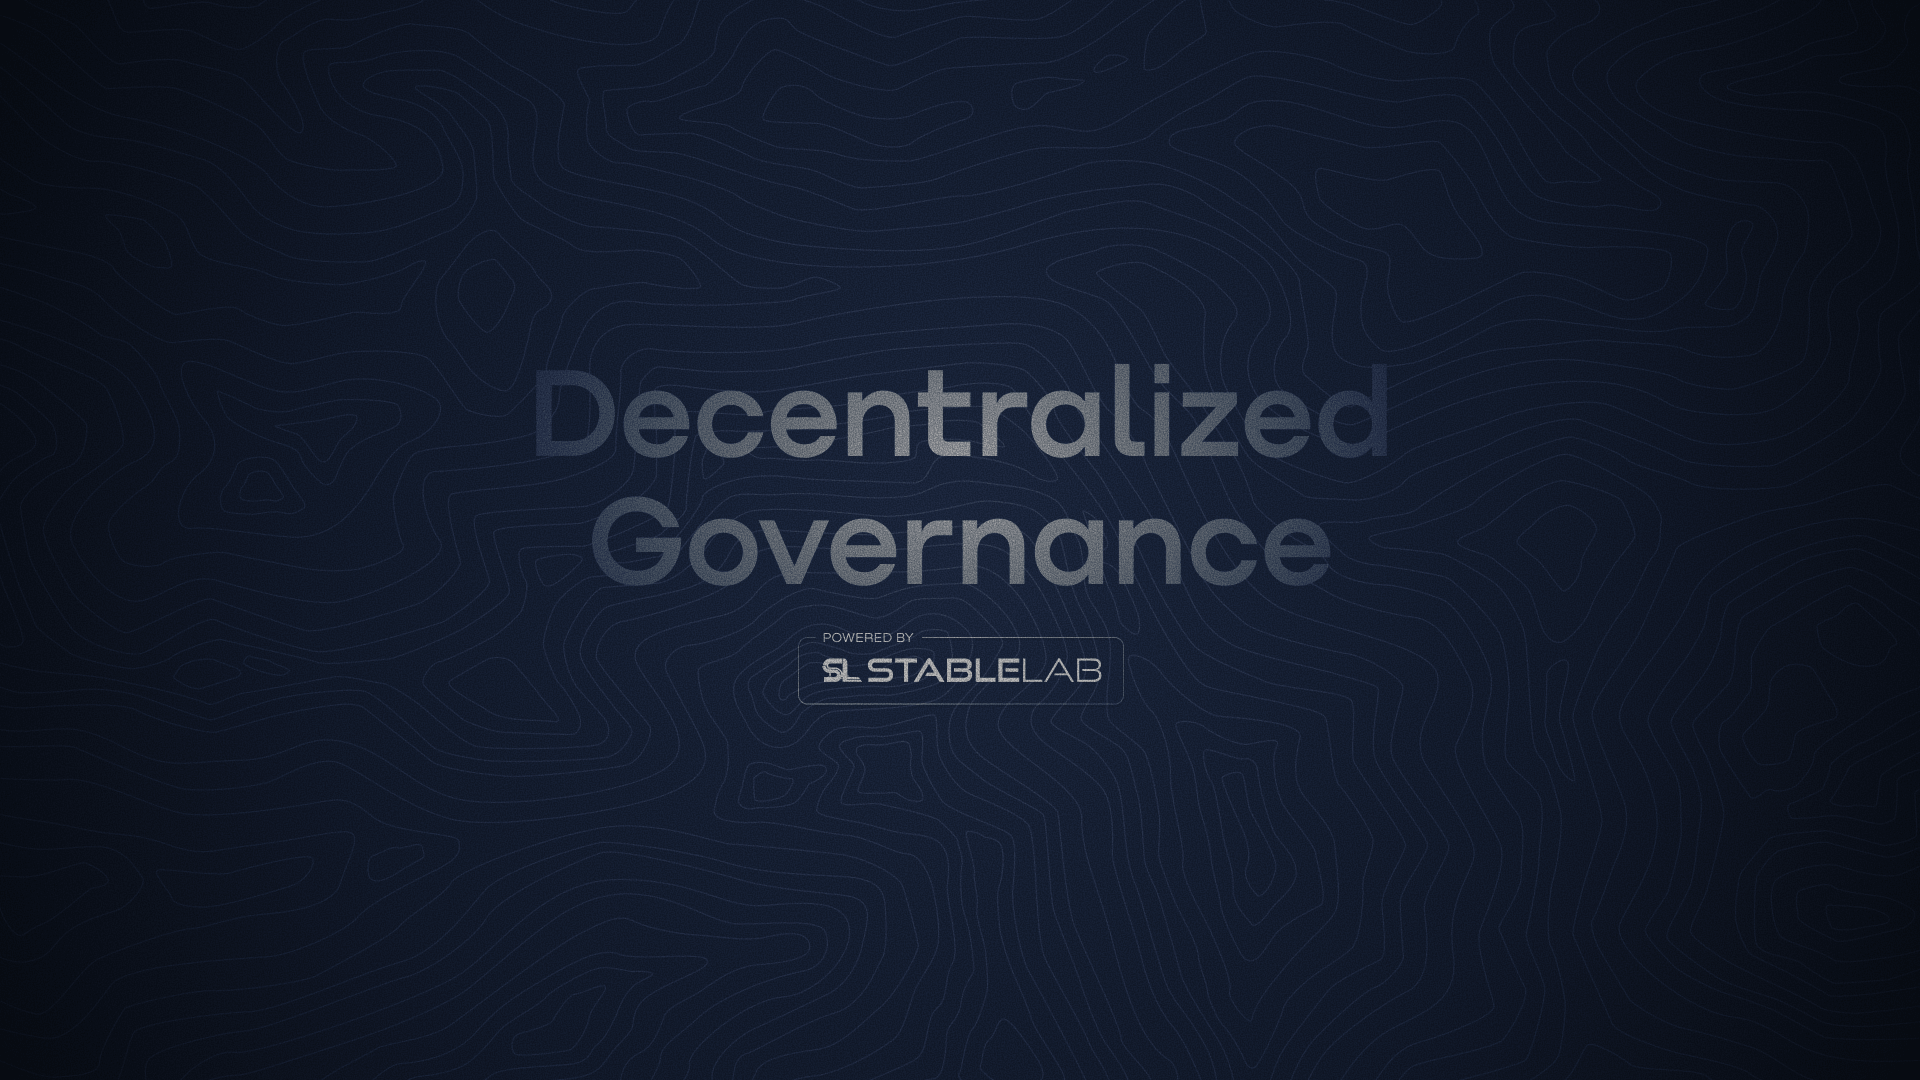
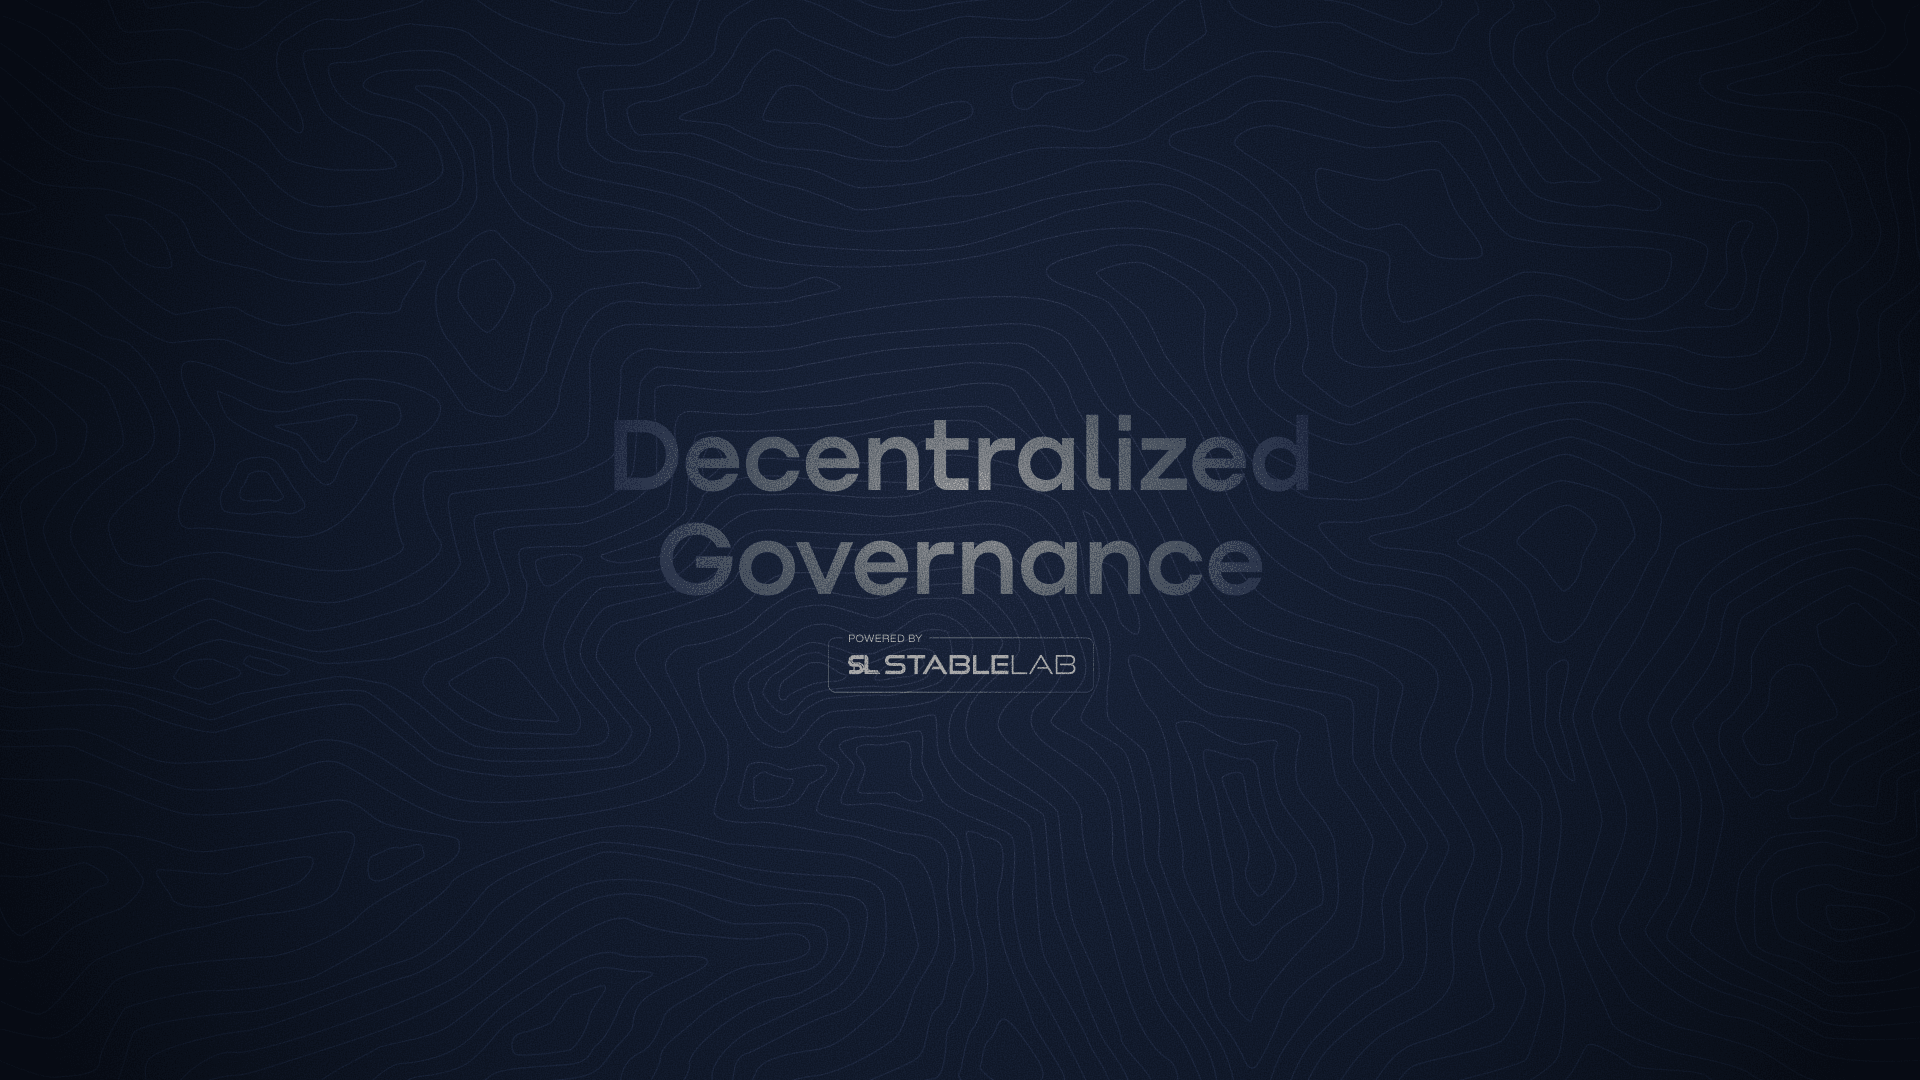
mobile carousel

Changed region(s): [[0.2812, 0.3361, 0.7188, 0.55], [0.4062, 0.5806, 0.5938, 0.6417]]

diff --git a/index.html b/index.html
@@ -645,6 +645,17 @@ footer a:hover { color:var(--ink); }
   .process-step:first-child { border-top:none; }
   .talks-row { grid-template-columns:1fr; }
 }
+
+/* Desktop image shown by default */
+.cs .img-desktop { display: block; }
+.cs .img-mobile  { display: none;  }
+
+/* On mobile swap to portrait image */
+@media (max-width: 768px) {
+  .cs .img-desktop { display: none;  }
+  .cs .img-mobile  { display: block; }
+}
+
 </style>
 </head>
 <body>
@@ -683,14 +694,47 @@ footer a:hover { color:var(--ink); }
       <!-- CAROUSEL SLIDES — replace each .cs div with:
            <div class="cs"><img src="images/carousel/01.jpg" alt="..."></div>
            or video: <div class="cs"><video autoplay muted loop playsinline src="..."></video></div> -->
-           <div class="cs"><img src="images/carousel/project-1.png" alt="Project name"></div>
-           <div class="cs"><img src="images/carousel/project-2.png" alt="Project name"></div>
-           <div class="cs"><img src="images/carousel/project-3.png" alt="Project name"></div>
-           <div class="cs"><video autoplay muted loop playsinline>
+           <div class="cs">
+            <img class="img-desktop"
+            src="images/carousel/project-1.png"
+            alt="Project 1">
+            <img class="img-mobile"
+            src="images/carousel/project-1-mobile.png"
+            alt="Project 1">
+          </div>
+
+          <div class="cs">
+            <img class="img-desktop"
+            src="images/carousel/project-2.png"
+            alt="Project 1">
+            <img class="img-mobile"
+            src="images/carousel/project-2-mobile.png"
+            alt="Project 1">
+          </div>
+
+          <div class="cs">
+            <img class="img-desktop"
+            src="images/carousel/project-3.png"
+            alt="Project 1">
+            <img class="img-mobile"
+            src="images/carousel/project-3-mobile.png"
+            alt="Project 1">
+          </div>
+           
+          <div class="cs"><video autoplay muted loop playsinline>
             <source src="images/carousel/ff-documentary-trailer-compressed-4.mp4" type="video/mp4">
           </video></div>
-          <div class="cs"><img src="images/carousel/project-5.png" alt="Project name"></div>
-    </div>
+          
+          <div class="cs">
+            <img class="img-desktop"
+            src="images/carousel/project-5.png"
+            alt="Project 1">
+            <img class="img-mobile"
+            src="images/carousel/project-5-mobile.png"
+            alt="Project 1">
+          </div>
+
+        </div>
   </div>
 
   <!-- gradient scrim -->